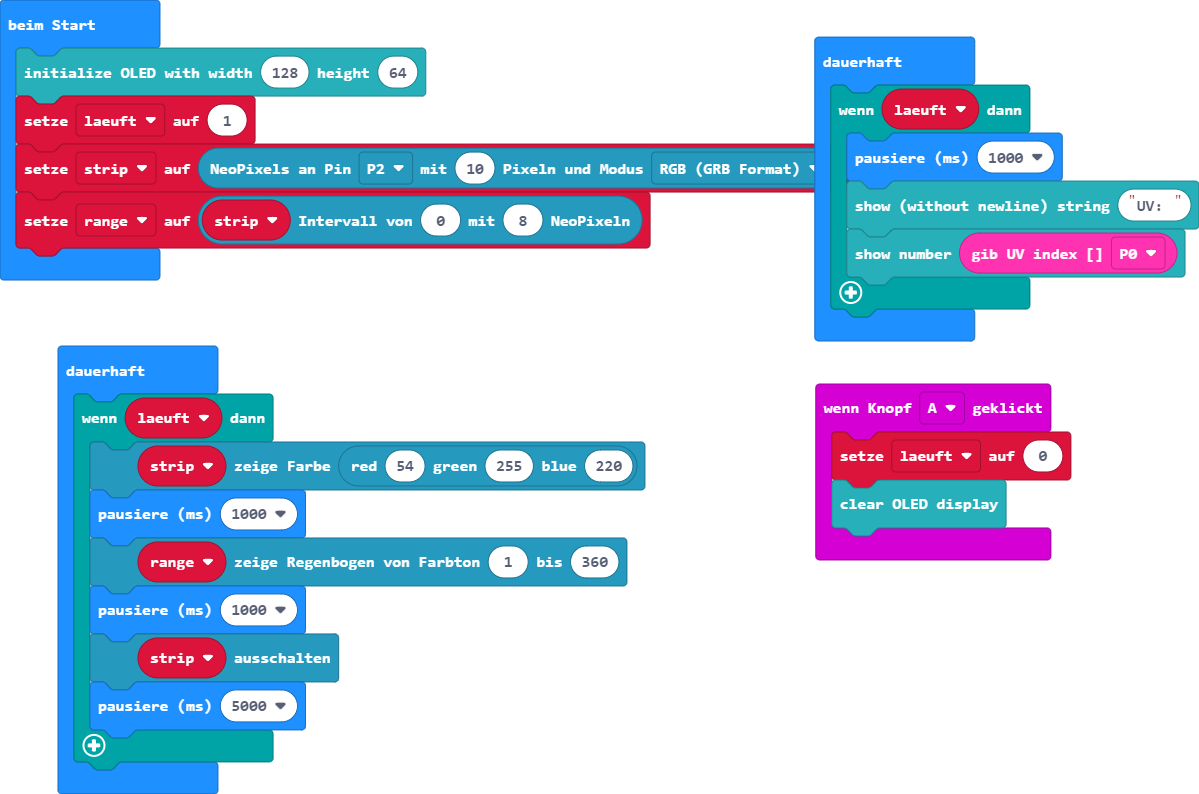
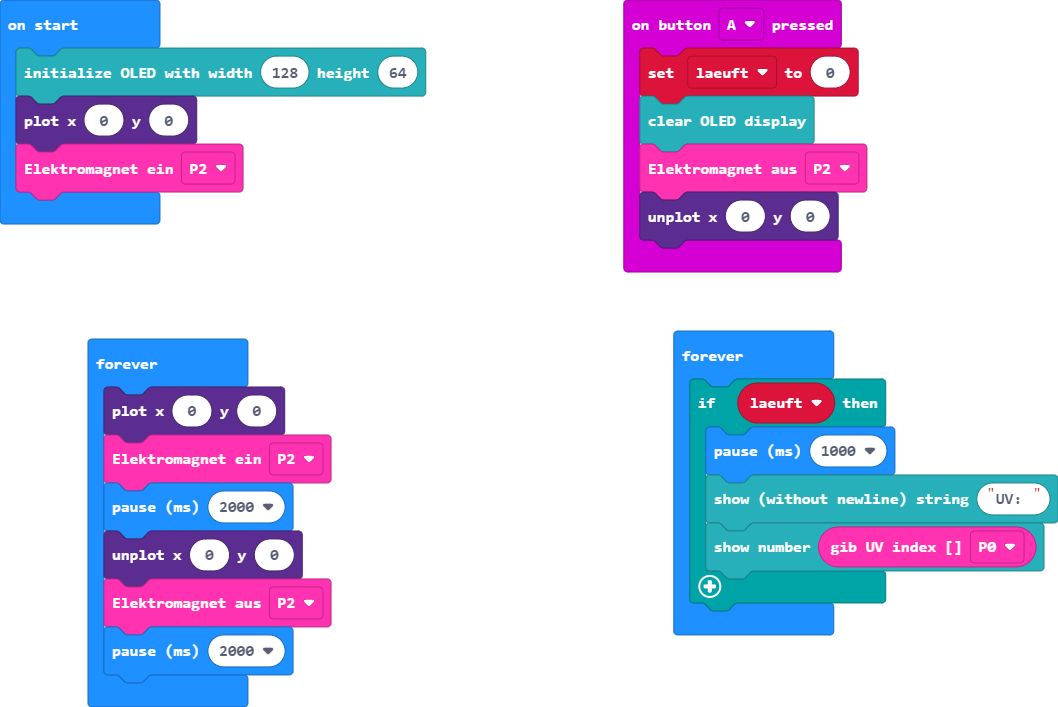
Update main.blocks, main.ts, aktoren.ts

diff --git a/main.ts b/main.ts
@@ -1,26 +1,25 @@
 input.onButtonPressed(Button.A, function () {
     laeuft = 0
     OLED.clear()
+    smartfeldAktoren.electromagnetAus(DigitalPin.P2)
+    led.unplot(0, 0)
 })
 let laeuft = 0
 OLED.init(128, 64)
-laeuft = 1
-let strip = neopixel.create(DigitalPin.P2, 10, NeoPixelMode.RGB)
-let range = strip.range(0, 8)
+led.plot(0, 0)
+smartfeldAktoren.electromagnetEin(DigitalPin.P2)
+basic.forever(function () {
+    led.plot(0, 0)
+    smartfeldAktoren.electromagnetEin(DigitalPin.P2)
+    basic.pause(2000)
+    led.unplot(0, 0)
+    smartfeldAktoren.electromagnetAus(DigitalPin.P2)
+    basic.pause(2000)
+})
 basic.forever(function () {
     if (laeuft) {
         basic.pause(1000)
         OLED.writeString("UV: ")
         OLED.writeNumNewLine(smartfeldSensoren.hw837_getUV(AnalogPin.P0))
-    }
-})
-basic.forever(function () {
-    if (laeuft) {
-        strip.showColor(smartfeldAktoren.rgb(54, 255, 220))
-        basic.pause(1000)
-        range.showRainbow(1, 360)
-        basic.pause(1000)
-        strip.clear()
-        basic.pause(5000)
     }
 })

diff --git a/aktoren.ts b/aktoren.ts
@@ -187,4 +187,30 @@ namespace smartfeldAktoren {
         strip.shift();
     }
 
+
+//--------------------------------------------------------------------------------------------------------
+
+    /**
+     * Activate electromagnet
+    */
+    //% subcategory="Elektromagnet" weight=31
+    //% group="Elektromagnet 101020073"
+    //% block="Elektromagnet ein |%pin"
+    export function electromagnetEin(pin: DigitalPin) {
+
+        pins.digitalWritePin(pin, 1);
+    }
+    /**
+     * Deactivate electromagnet
+    */
+    //% subcategory="Elektromagnet" weight=30
+    //% group="Elektromagnet 101020073"
+    //% block="Elektromagnet aus |%pin"
+    export function electromagnetAus(pin: DigitalPin) {
+
+        pins.digitalWritePin(pin, 0);
+
+        basic.pause(50);
+    }
+
 }
